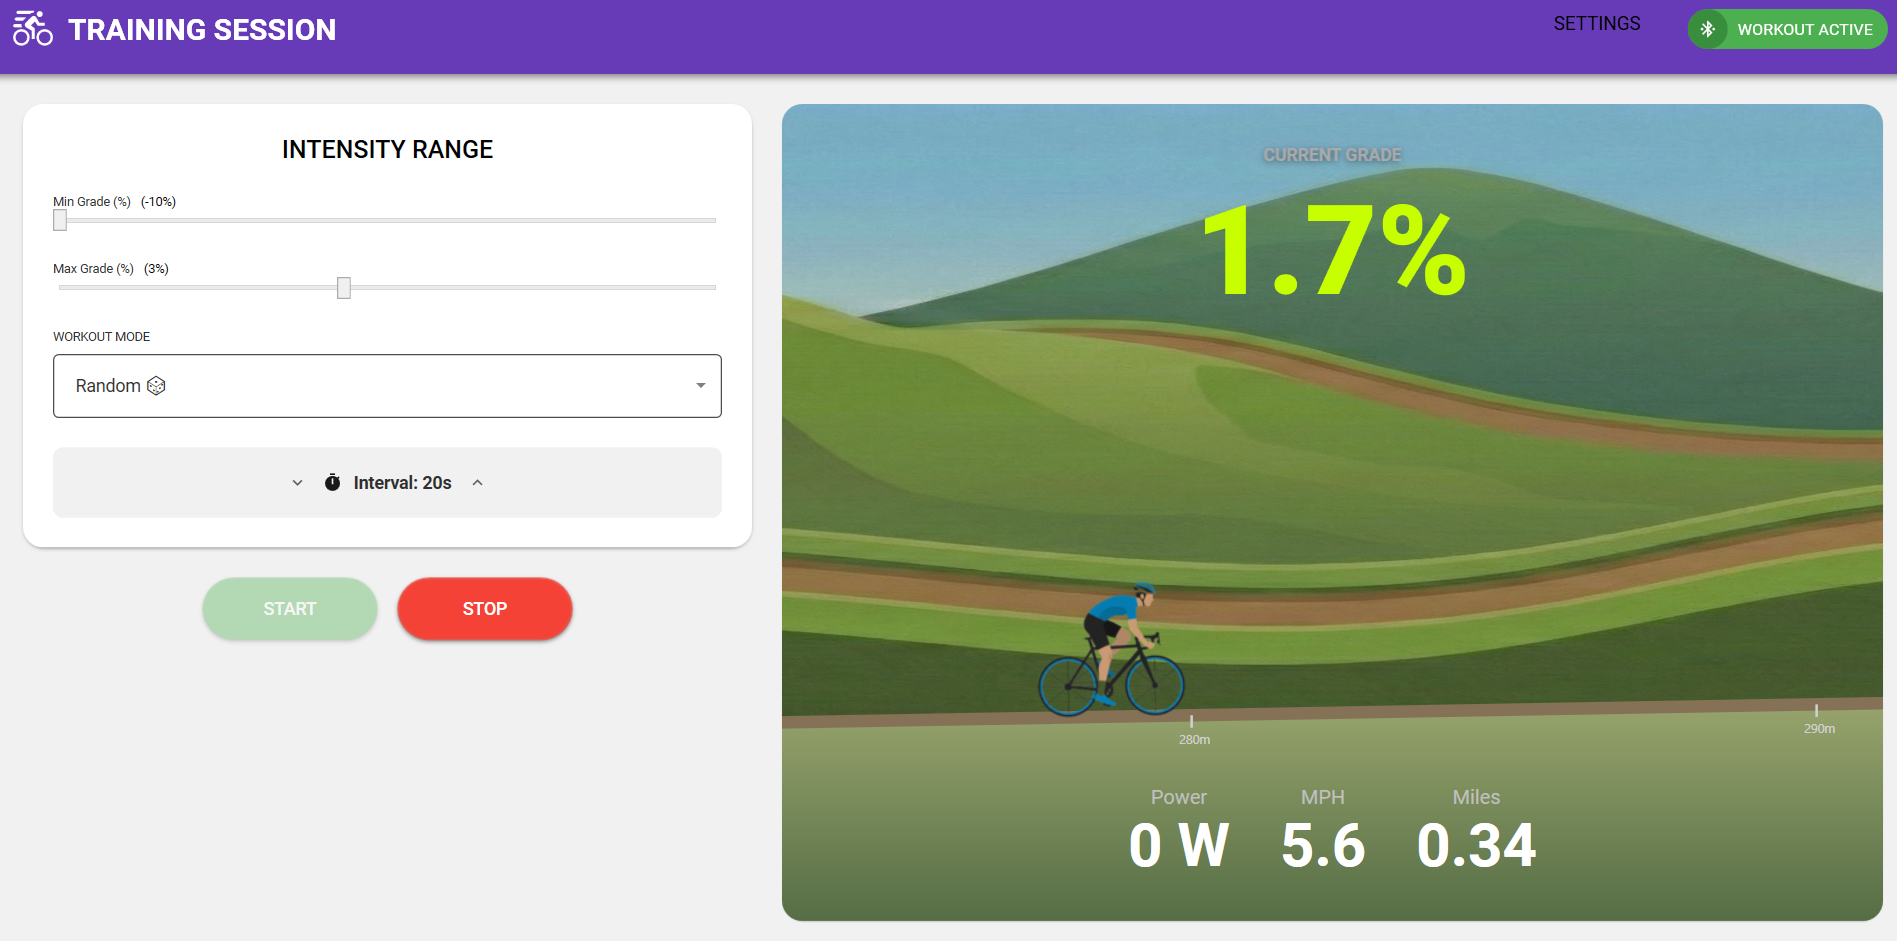
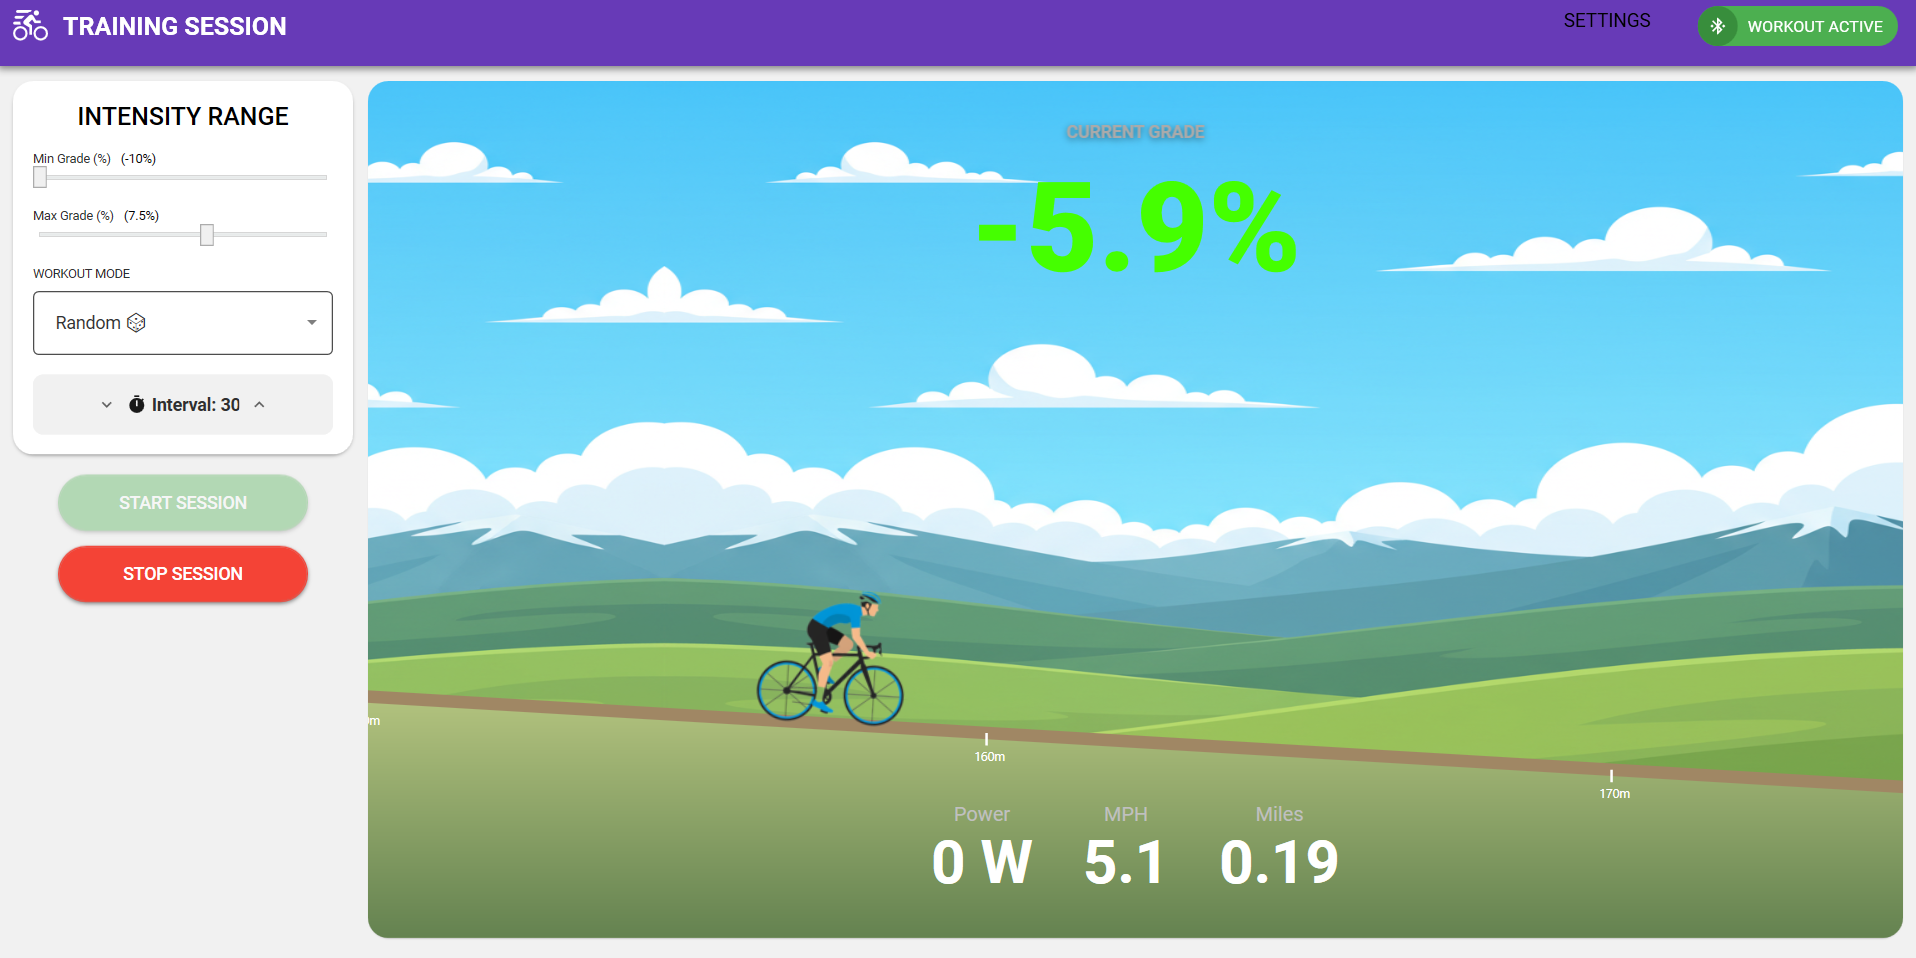
feat: overhaul Workout HUD for high-visibility and fix background tiling gaps
- Resized side menu to 280px and switched session buttons to vertical layout.
- Implemented high-contrast HUD cards with 72pt font and glow effects for trainer visibility.
- Improved SimulationCanvas tiling logic to ensure full-width coverage on wide screens.
- Updated project assets and README screenshots.

diff --git a/WorkoutView.xaml b/WorkoutView.xaml
@@ -23,11 +23,11 @@
         </Grid.RowDefinitions>
 
         <!-- Top Bar -->
-        <materialDesign:ColorZone Mode="PrimaryMid" Padding="16" materialDesign:ElevationAssist.Elevation="Dp4">
+        <materialDesign:ColorZone Mode="PrimaryMid" Padding="12" materialDesign:ElevationAssist.Elevation="Dp4">
             <Grid>
                 <StackPanel Orientation="Horizontal">
-                    <materialDesign:PackIcon Kind="BikeFast" Width="32" Height="32" VerticalAlignment="Center" Margin="0,0,12,0"/>
-                    <TextBlock Text="TRAINING SESSION" Style="{DynamicResource MaterialDesignHeadline5TextBlock}" VerticalAlignment="Center" FontWeight="Bold"/>
+                    <materialDesign:PackIcon Kind="BikeFast" Width="28" Height="28" VerticalAlignment="Center" Margin="0,0,12,0"/>
+                    <TextBlock Text="TRAINING SESSION" Style="{DynamicResource MaterialDesignHeadline6TextBlock}" VerticalAlignment="Center" FontWeight="Bold"/>
                 </StackPanel>
                 
                 <StackPanel Orientation="Horizontal" HorizontalAlignment="Right" VerticalAlignment="Center">
@@ -69,17 +69,17 @@
         </materialDesign:ColorZone>
 
         <!-- Main Content -->
-        <Grid Grid.Row="1" Margin="24">
+        <Grid Grid.Row="1" Margin="12">
             <Grid.ColumnDefinitions>
-                <ColumnDefinition Width="2*"/>
-                <ColumnDefinition Width="3*"/>
+                <ColumnDefinition Width="280"/>
+                <ColumnDefinition Width="*"/>
             </Grid.ColumnDefinitions>
 
             <!-- Controls Side -->
-            <StackPanel Grid.Column="0" Margin="0,0,12,0">
-                <materialDesign:Card Padding="24" materialDesign:ElevationAssist.Elevation="Dp2" UniformCornerRadius="16">
+            <StackPanel Grid.Column="0" Margin="0,0,8,0">
+                <materialDesign:Card Padding="16" materialDesign:ElevationAssist.Elevation="Dp2" UniformCornerRadius="16">
                     <StackPanel>
-                        <TextBlock Text="INTENSITY RANGE" Style="{DynamicResource MaterialDesignHeadline6TextBlock}" Margin="0,0,0,24" HorizontalAlignment="Center" Foreground="{DynamicResource PrimaryHueMidBrush}"/>
+                        <TextBlock Text="INTENSITY RANGE" Style="{DynamicResource MaterialDesignHeadline6TextBlock}" Margin="0,0,0,16" HorizontalAlignment="Center" Foreground="{DynamicResource PrimaryHueMidBrush}"/>
                         
                         <StackPanel Orientation="Horizontal">
                             <TextBlock Text="{Binding MinLabel}" Style="{DynamicResource MaterialDesignOverlineTextBlock}"/>
@@ -87,7 +87,7 @@
                                        Style="{DynamicResource MaterialDesignOverlineTextBlock}" Margin="8,0,0,0" Foreground="{DynamicResource PrimaryHueMidBrush}"/>
                         </StackPanel>
                         <Slider x:Name="SliderMin" Minimum="-10" Maximum="20" Value="{Binding MinResistance}" TickFrequency="0.5" IsSnapToTickEnabled="True"
-                                Style="{DynamicResource MaterialDesignSlider}" Margin="0,0,0,24"/>
+                                Style="{DynamicResource MaterialDesignSlider}" Margin="0,0,0,16"/>
                         
                         <StackPanel Orientation="Horizontal">
                             <TextBlock Text="{Binding MaxLabel}" Style="{DynamicResource MaterialDesignOverlineTextBlock}"/>
@@ -95,9 +95,9 @@
                                        Style="{DynamicResource MaterialDesignOverlineTextBlock}" Margin="8,0,0,0" Foreground="{DynamicResource PrimaryHueMidBrush}"/>
                         </StackPanel>
                         <Slider x:Name="SliderMax" Minimum="-10" Maximum="20" Value="{Binding MaxResistance}" TickFrequency="0.5" IsSnapToTickEnabled="True"
-                                Style="{DynamicResource MaterialDesignSlider}" Margin="0,0,0,24"/>
+                                Style="{DynamicResource MaterialDesignSlider}" Margin="0,0,0,16"/>
 
-                        <StackPanel Margin="0,0,0,24">
+                        <StackPanel Margin="0,0,0,16">
                             <TextBlock Text="WORKOUT MODE" Style="{DynamicResource MaterialDesignOverlineTextBlock}"/>
                             <ComboBox x:Name="ComboWorkoutMode" SelectedIndex="{Binding SelectedModeIndex}" Style="{DynamicResource MaterialDesignOutlinedComboBox}" Margin="0,8,0,0">
                                 <ComboBoxItem Content="Random 🎲"/>
@@ -106,16 +106,16 @@
                             </ComboBox>
                         </StackPanel>
 
-                        <materialDesign:ColorZone Mode="Light" Padding="12" CornerRadius="8" materialDesign:ElevationAssist.Elevation="Dp0">
+                        <materialDesign:ColorZone Mode="Light" Padding="8" CornerRadius="8" materialDesign:ElevationAssist.Elevation="Dp0">
                             <StackPanel Orientation="Horizontal" HorizontalAlignment="Center">
-                                <Button Style="{DynamicResource MaterialDesignToolButton}" Command="{Binding DecreaseIntervalCommand}" Margin="0,0,8,0">
+                                <Button Style="{DynamicResource MaterialDesignToolButton}" Command="{Binding DecreaseIntervalCommand}" Margin="0,0,4,0">
                                     <materialDesign:PackIcon Kind="ChevronDown" />
                                 </Button>
                                 
-                                <materialDesign:PackIcon Kind="Timer" Margin="0,0,8,0" VerticalAlignment="Center"/>
-                                <TextBlock x:Name="TxtInterval" Text="{Binding IntervalText}" VerticalAlignment="Center" FontWeight="SemiBold" Width="80" TextAlignment="Center"/>
+                                <materialDesign:PackIcon Kind="Timer" Margin="0,0,4,0" VerticalAlignment="Center"/>
+                                <TextBlock x:Name="TxtInterval" Text="{Binding IntervalText}" VerticalAlignment="Center" FontWeight="SemiBold" Width="70" TextAlignment="Center"/>
                                 
-                                <Button Style="{DynamicResource MaterialDesignToolButton}" Command="{Binding IncreaseIntervalCommand}" Margin="8,0,0,0">
+                                <Button Style="{DynamicResource MaterialDesignToolButton}" Command="{Binding IncreaseIntervalCommand}" Margin="4,0,0,0">
                                     <materialDesign:PackIcon Kind="ChevronUp" />
                                 </Button>
                             </StackPanel>
@@ -123,56 +123,82 @@
                     </StackPanel>
                 </materialDesign:Card>
 
-                <StackPanel Orientation="Horizontal" HorizontalAlignment="Center" Margin="0,24,0,0">
-                    <Button x:Name="BtnStart" Content="START" Command="{Binding StartCommand}" 
+                <StackPanel Orientation="Vertical" HorizontalAlignment="Center" Margin="0,16,0,0">
+                    <Button x:Name="BtnStart" Content="START SESSION" Command="{Binding StartCommand}" 
                             Style="{DynamicResource MaterialDesignRaisedButton}" 
                             Background="#4CAF50" BorderBrush="#4CAF50"
-                            Width="140" Height="50" materialDesign:ButtonAssist.CornerRadius="25" Margin="0,0,16,0">
+                            Width="200" Height="45" materialDesign:ButtonAssist.CornerRadius="22" Margin="0,0,0,12">
                     </Button>
-                    <Button x:Name="BtnStop" Content="STOP" Command="{Binding StopCommand}" 
+                    <Button x:Name="BtnStop" Content="STOP SESSION" Command="{Binding StopCommand}" 
                             Style="{DynamicResource MaterialDesignRaisedButton}" 
                             Background="#F44336" BorderBrush="#F44336"
-                            Width="140" Height="50" materialDesign:ButtonAssist.CornerRadius="25">
+                            Width="200" Height="45" materialDesign:ButtonAssist.CornerRadius="22">
                     </Button>
                 </StackPanel>
             </StackPanel>
 
             <!-- Display Side -->
-            <materialDesign:Card Grid.Column="1" Margin="12,0,0,0" UniformCornerRadius="16" Background="#1A1A1A">
+            <materialDesign:Card Grid.Column="1" Margin="4,0,0,0" UniformCornerRadius="16" Background="#1A1A1A">
                 <Grid>
+                    <!-- Game Canvas -->
                     <shared:SimulationCanvas SpeedKph="{Binding CurrentSpeedKph}" 
                                            GradePercent="{Binding CurrentGradePercent}" 
                                            SyncedDistanceMeters="{Binding CurrentDistanceMeters}"
-                                           Opacity="0.8"/>
-                    <StackPanel VerticalAlignment="Top" Margin="0,32,0,0">
-                        <TextBlock Text="CURRENT GRADE" HorizontalAlignment="Center" Foreground="#AAAAAA" FontWeight="Bold" Margin="0,0,0,8"
-                                   Effect="{StaticResource MaterialDesignShadowDepth2}"/>
-                        <Viewbox Height="120">
-                            <TextBlock x:Name="TxtCurrentResistance" Text="{Binding ResistancePercent, StringFormat={}{0:F1}%}" 
-                                       FontWeight="Black" Foreground="{Binding ResistanceBrush}" />
-                        </Viewbox>
-                    </StackPanel>
+                                           Opacity="1.0"/>
 
-                    <!-- Telemetry at Bottom -->
-                    <StackPanel Orientation="Horizontal" HorizontalAlignment="Center" VerticalAlignment="Bottom" Margin="0,0,0,32">
-                        <!-- Power -->
-                        <StackPanel Margin="20,0">
-                            <TextBlock Text="Power" FontSize="16" Foreground="Silver" HorizontalAlignment="Center"/>
-                            <TextBlock Text="{Binding PowerText}" FontSize="48" FontWeight="Bold" Foreground="White" HorizontalAlignment="Center"/>
+                    <!-- HUD: Top Left Grade Badge -->
+                    <materialDesign:Card VerticalAlignment="Top" HorizontalAlignment="Left" Margin="24" 
+                                       Background="#E6212121" UniformCornerRadius="12" Padding="16"
+                                       materialDesign:ElevationAssist.Elevation="Dp6">
+                        <StackPanel Orientation="Horizontal">
+                            <materialDesign:PackIcon Kind="SlopeUphill" Width="32" Height="32" Foreground="Silver" VerticalAlignment="Center" Margin="0,0,12,0"/>
+                            <StackPanel>
+                                <TextBlock Text="GRADE" Style="{StaticResource MaterialDesignOverlineTextBlock}" Foreground="Silver" FontWeight="Bold"/>
+                                <TextBlock Text="{Binding ResistancePercent, StringFormat={}{0:F1}%}" FontSize="48" FontWeight="Black" Foreground="{Binding ResistanceBrush}"/>
+                            </StackPanel>
                         </StackPanel>
+                    </materialDesign:Card>
 
-                        <!-- Speed -->
-                        <StackPanel Margin="20,0">
-                            <TextBlock Text="{Binding SpeedLabel}" FontSize="16" Foreground="Silver" HorizontalAlignment="Center"/>
-                            <TextBlock Text="{Binding SpeedText}" FontSize="48" FontWeight="Bold" Foreground="White" HorizontalAlignment="Center"/>
-                        </StackPanel>
+                    <!-- HUD: Bottom Telemetry Bar -->
+                    <Grid VerticalAlignment="Bottom" HorizontalAlignment="Stretch" Margin="16,0,16,16">
+                        <Grid.ColumnDefinitions>
+                            <ColumnDefinition Width="*" />
+                            <ColumnDefinition Width="*" />
+                            <ColumnDefinition Width="*" />
+                        </Grid.ColumnDefinitions>
+                        
+                        <!-- Power Panel -->
+                        <materialDesign:Card Grid.Column="0" Margin="8" Background="#E6212121" UniformCornerRadius="16" Padding="12" materialDesign:ElevationAssist.Elevation="Dp4">
+                            <StackPanel>
+                                <TextBlock Text="POWER (WATTS)" Style="{StaticResource MaterialDesignOverlineTextBlock}" Foreground="Silver" HorizontalAlignment="Center" FontWeight="Bold"/>
+                                <TextBlock Text="{Binding PowerText}" FontSize="72" FontWeight="Black" Foreground="#2196F3" HorizontalAlignment="Center">
+                                    <TextBlock.Effect>
+                                        <DropShadowEffect BlurRadius="10" Color="#2196F3" Opacity="0.3" ShadowDepth="0"/>
+                                    </TextBlock.Effect>
+                                </TextBlock>
+                            </StackPanel>
+                        </materialDesign:Card>
 
-                        <!-- Distance -->
-                        <StackPanel Margin="20,0">
-                            <TextBlock Text="{Binding DistanceLabel}" FontSize="16" Foreground="Silver" HorizontalAlignment="Center"/>
-                            <TextBlock Text="{Binding DistanceText}" FontSize="48" FontWeight="Bold" Foreground="White" HorizontalAlignment="Center"/>
-                        </StackPanel>
-                    </StackPanel>
+                        <!-- Speed Panel -->
+                        <materialDesign:Card Grid.Column="1" Margin="8" Background="#E6212121" UniformCornerRadius="16" Padding="12" materialDesign:ElevationAssist.Elevation="Dp4">
+                            <StackPanel>
+                                <TextBlock Text="{Binding SpeedLabel}" Style="{StaticResource MaterialDesignOverlineTextBlock}" Foreground="Silver" HorizontalAlignment="Center" FontWeight="Bold"/>
+                                <TextBlock Text="{Binding SpeedText}" FontSize="72" FontWeight="Black" Foreground="#4CAF50" HorizontalAlignment="Center">
+                                    <TextBlock.Effect>
+                                        <DropShadowEffect BlurRadius="10" Color="#4CAF50" Opacity="0.3" ShadowDepth="0"/>
+                                    </TextBlock.Effect>
+                                </TextBlock>
+                            </StackPanel>
+                        </materialDesign:Card>
+
+                        <!-- Distance Panel -->
+                        <materialDesign:Card Grid.Column="2" Margin="8" Background="#E6212121" UniformCornerRadius="16" Padding="12" materialDesign:ElevationAssist.Elevation="Dp4">
+                            <StackPanel>
+                                <TextBlock Text="{Binding DistanceLabel}" Style="{StaticResource MaterialDesignOverlineTextBlock}" Foreground="Silver" HorizontalAlignment="Center" FontWeight="Bold"/>
+                                <TextBlock Text="{Binding DistanceText}" FontSize="72" FontWeight="Black" Foreground="White" HorizontalAlignment="Center"/>
+                            </StackPanel>
+                        </materialDesign:Card>
+                    </Grid>
                 </Grid>
             </materialDesign:Card>
         </Grid>

diff --git a/BikeFitness.Shared/SimulationCanvas.cs b/BikeFitness.Shared/SimulationCanvas.cs
@@ -322,24 +322,28 @@ namespace BikeFitness.Shared
                 // 1. Background
                 dc.DrawRectangle(Brushes.LightSkyBlue, null, new Rect(0, 0, ActualWidth, ActualHeight));
 
-                if (_backgroundLayer != null)
-                {
-                    double bgWidth = _backgroundLayer.PixelWidth;
-                    double bgHeight = ActualHeight;
-
-                    double totalShift = _totalDistanceMeters * 5;
-                    long tileIndex = (long)(totalShift / bgWidth);
-                    double localOffset = totalShift % bgWidth;
-
-                    // Tile 1
-                    bool mirror1 = (tileIndex % 2) != 0;
-                    DrawBackgroundTile(dc, _backgroundLayer, -localOffset, bgWidth + 1, bgHeight, mirror1);
-
-                    // Tile 2
-                    DrawBackgroundTile(dc, _backgroundLayer, -localOffset + bgWidth, bgWidth + 1, bgHeight, !mirror1);
-                }
-
-                // 2. Terrain Setup
+                                if (_backgroundLayer != null)
+                                {
+                                    double bgWidth = _backgroundLayer.PixelWidth;
+                                    double bgHeight = ActualHeight;
+                
+                                    double totalShift = _totalDistanceMeters * 5;
+                                    double localOffset = totalShift % bgWidth;
+                                    long firstTileIndex = (long)(totalShift / bgWidth);
+                
+                                    // Draw enough tiles to fill the entire width of the canvas
+                                    double startX = -localOffset;
+                                    int i = 0;
+                                    while (startX < ActualWidth)
+                                    {
+                                        long currentTileIndex = firstTileIndex + i;
+                                        bool mirror = (currentTileIndex % 2) != 0;
+                                        DrawBackgroundTile(dc, _backgroundLayer, startX, bgWidth + 1, bgHeight, mirror);
+                                        startX += bgWidth;
+                                        i++;
+                                    }
+                                }
+                                // 2. Terrain Setup
                 double bikeScreenX = ActualWidth * 0.3;
                 double bikeWorldDist = _totalDistanceMeters;
                 double bikeWorldHeight = GetHeightAt(bikeWorldDist);
